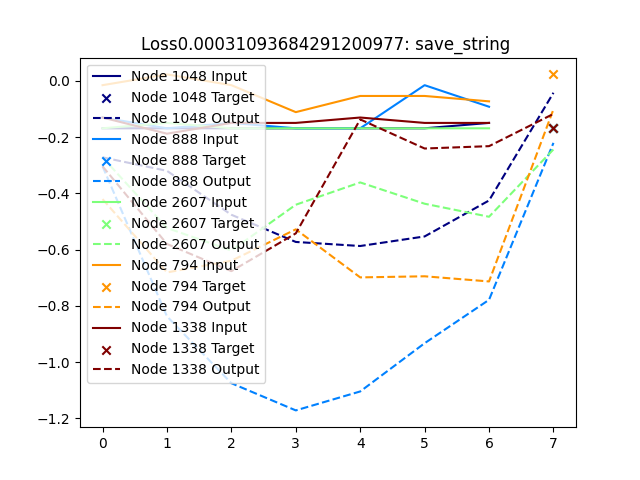
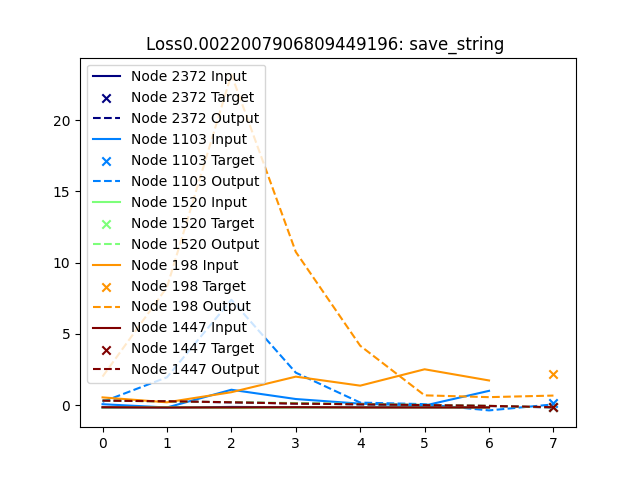
More accurate description of the loss. MSE takes mean over batches, nodes and prediction horizon. We devide by the number of batches to obtain an average squared error of a single node prediction at a time instance

diff --git a/GraphRNN/train_graph_rnn.py b/GraphRNN/train_graph_rnn.py
@@ -69,7 +69,7 @@ def train(model, train_loader, val_loader, criterion, optimizer, pred_hor, devic
                     gradients["post_limit"][param_name].append(0)
 
             optimizer.step()
-            train_loss += loss.item()/((pred_hor) * len(train_loader) * input_node_data.shape[0])
+            train_loss += loss.item()/(len(train_loader))
             batch_num += 1
         
         if epoch % (n_epochs/10) == 0:
@@ -80,14 +80,16 @@ def train(model, train_loader, val_loader, criterion, optimizer, pred_hor, devic
                 target_edge_weights = target_edge_weights.to(device)
                 target_node_data = target_node_data.to(device)
                 output = model(x_in=input_node_data, pred_hor = pred_hor)
-                val_loss += criterion(input_node_data, output, target_node_data)/((pred_hor) * len(val_loader) * input_node_data.shape[0])
+                
+                val_loss += criterion(input_node_data, output, target_node_data)/(len(val_loader))
+
             print(f"EPOCH: {epoch} ", end="")
             print(f"$ Train Loss: { train_loss:.3e} ", end="")
             print(f"$ Validation Loss: { val_loss:.3e} ")
         #Calculate the average loss per prediction, so per node, per time step
  
         train_losses.append(train_loss)
-        val_losses.append(val_loss)
+        val_losses.append(int(val_loss))
         if n_plots is not None:
             if epoch % (int(n_epochs)/n_plots)== 0 or epoch == n_epochs-1:
 
@@ -126,11 +128,11 @@ def train(model, train_loader, val_loader, criterion, optimizer, pred_hor, devic
             json.dump(val_losses, f)
     return train_losses, parameter_mag, gradients, hidden_states
 
-config = {  "n_epochs": 1800,
-            "num_train_dates": 9,
-            "num_validation_dates": 9,
+config = {  "n_epochs": 1000,
+            "num_train_dates": 20,
+            "num_validation_dates": 13,
             "input_hor": 7,
-            "pred_hor": 1,
+            "pred_hor": 3,
             "h_size": 70,
             "batch_size": 50,
             "lr": 0.0046,

diff --git a/GraphRNN/GraphRNN.py b/GraphRNN/GraphRNN.py
@@ -56,11 +56,9 @@ class Graph_RNN(torch.nn.Module):
         # torch.nn.init.xavier_normal_(self.E2)
 
         self.H2X_out_MLP = torch.nn.Sequential(
-            torch.nn.Linear(h_size, 4*h_size),
+            torch.nn.Linear(h_size, 2*h_size),
             torch.nn.ReLU(),
-            torch.nn.Linear(4*h_size, h_size),
-            torch.nn.ReLU(),
-            torch.nn.Linear(h_size, n_features)
+            torch.nn.Linear(2*h_size, n_features)
         )
         if self.fixed_edge_weights is not None:
             self.node_idx = self.fixed_edge_weights[:, 0].unique()
